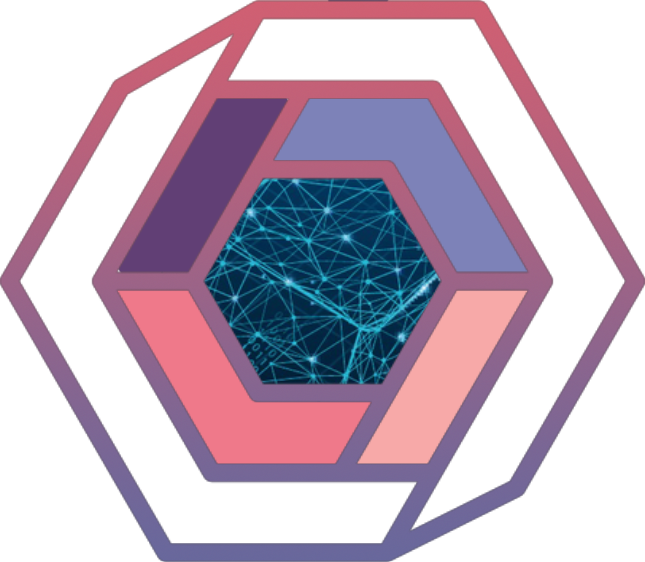
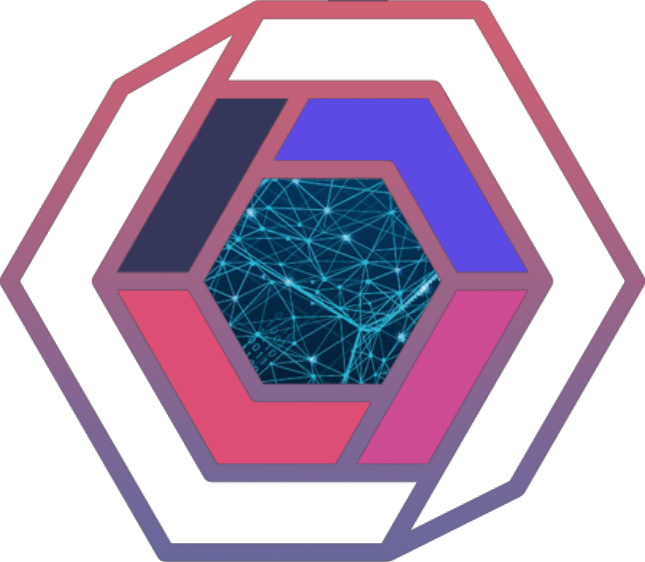
Added style document and updated color palette for coin

Changed region(s): [[0.186, 0.5142, 0.8372, 0.847], [0.186, 0.1512, 0.8372, 0.484]]

diff --git a/STIL.md b/STIL.md
@@ -1,0 +1,15 @@
+# Layout och stil på hemsidan
+
+https://www.revolut.com
+
+# Color palette
+
+https://coolors.co/dc4e76-cc4b93-a946be-5c4ae4-35375a
+
+# Fonts
+
+Heading1 - Heading6:
+https://fonts.google.com/specimen/Syne
+
+Paragraph:
+https://fonts.google.com/specimen/Montserrat?preview.text=%20Q%20&preview.text_type=custom
